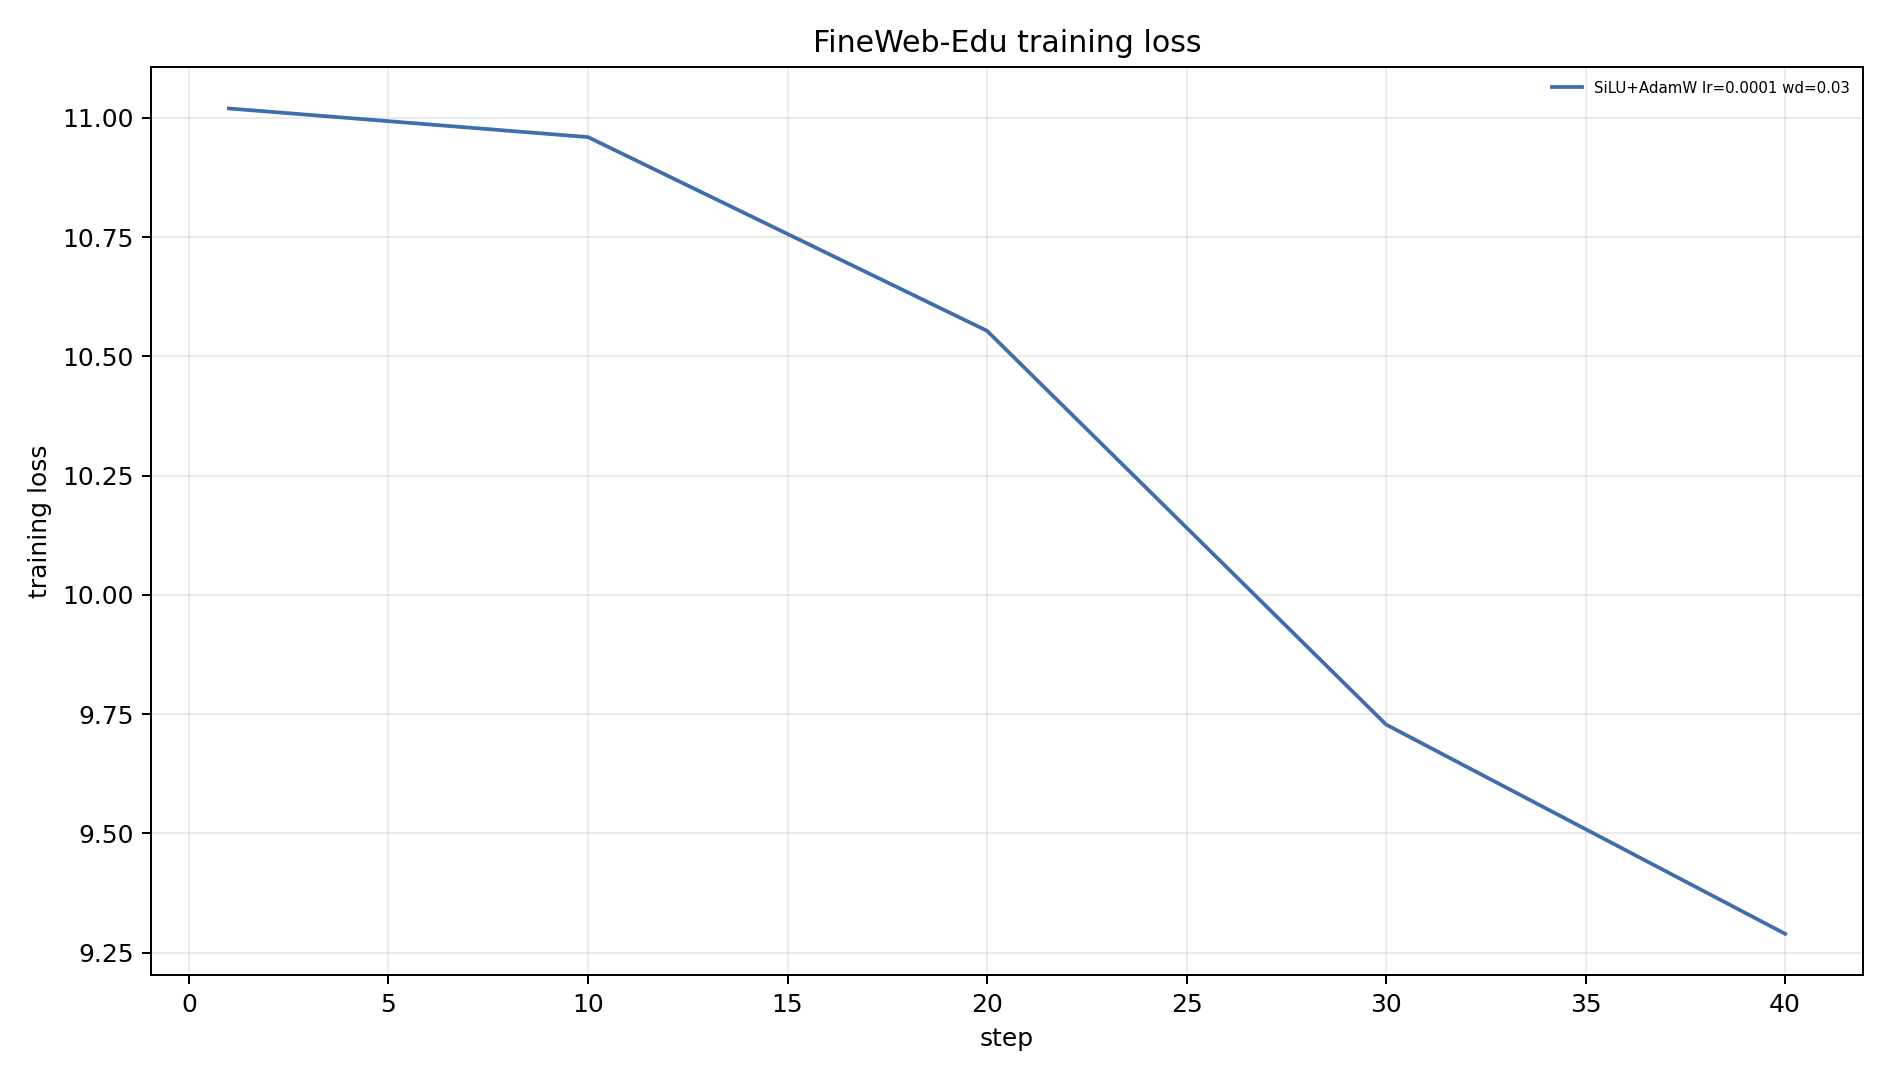
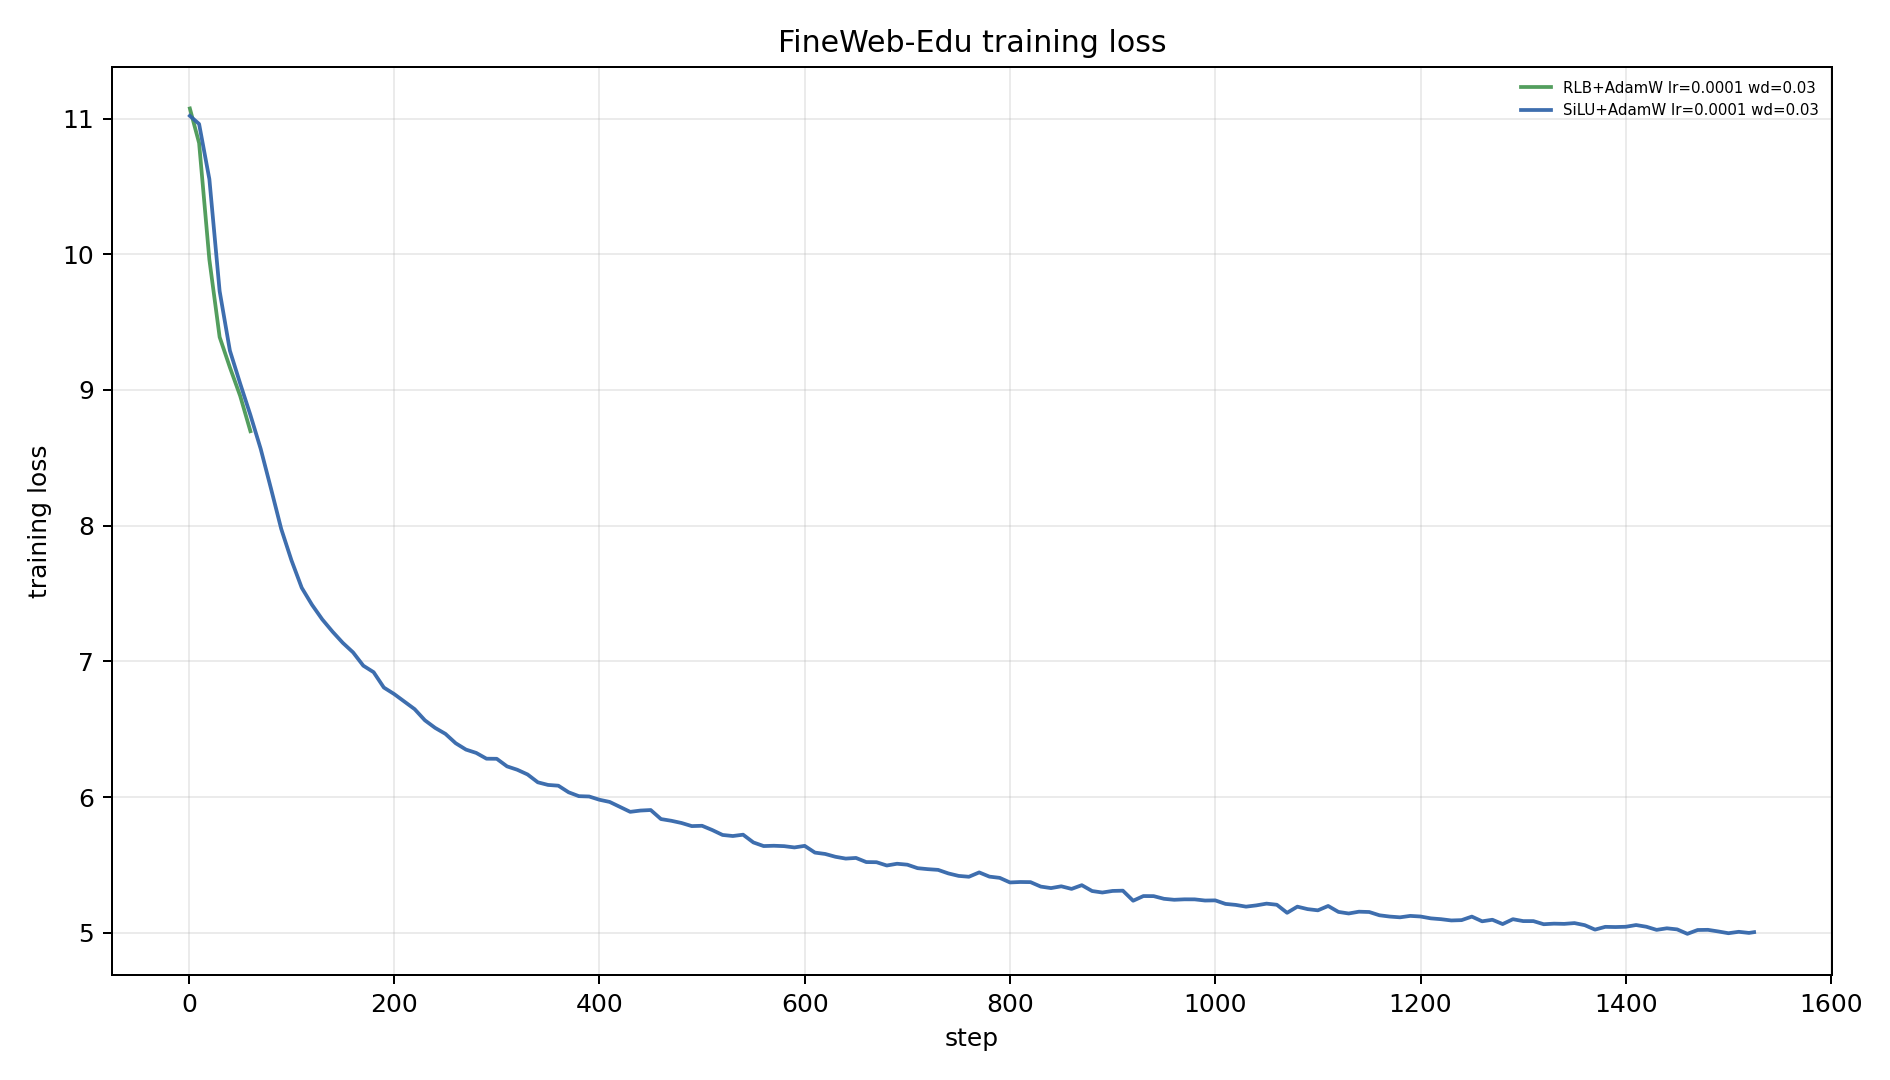
Refresh phase1 curves with live rows

diff --git a/experiments/ICLR_RETURN_HANDOFF_20260603.md b/experiments/ICLR_RETURN_HANDOFF_20260603.md
@@ -1,17 +1,17 @@
 # ICLR Return Handoff - 2026-06-03
 
-Last updated: 2026-06-04T14:19:04-04:00
+Last updated: 2026-06-04T14:57:20-04:00
 
 This file is the live operational handoff for returning to the project. It records completed smoke results, currently running Slurm work, live progress observed from JSONL/logs, and the exact next conditions. Raw run outputs remain ignored; compact summaries and launch infrastructure are tracked.
 
 ## Current Slurm State
 
-Active jobs at 2026-06-04T14:19:04-04:00:
+Active jobs at 2026-06-04T14:57:20-04:00:
 
 | job | state | elapsed | node | purpose | GPU use |
 | --- | --- | ---: | --- | --- | ---: |
-| `71047` | RUNNING | 03:49:24 | `monakhova-compute-01` | Phase 1 protocol-lock DCLM MatrixPolicy shard, configs 8-11 | 4 A6000 |
-| `71048` | RUNNING | 00:01:39 after restart | `ma-compute-02` | Phase 1 protocol-lock FineWeb-Edu AdamW control shard, configs 0-3 | 4 A6000 |
+| `71047` | RUNNING | 04:30:38+ | `monakhova-compute-01` | Phase 1 protocol-lock DCLM MatrixPolicy shard, configs 8-11 | 4 A6000 |
+| `71048` | RUNNING | 00:38:49+ after restart | `ma-compute-02` | Phase 1 protocol-lock FineWeb-Edu AdamW control shard, configs 0-3 | 4 A6000 |
 
 Active total: 8 A6000, exactly at the cap. Do not submit another GPU job until one exits.
 
@@ -36,14 +36,14 @@ Completed Phase 1 jobs so far:
 
 ## Live Phase 1 Protocol-Lock Progress
 
-These are not final Phase 1 results. They are the latest observed in-progress JSONL/log state at 2026-06-04T14:19:04-04:00.
+These are not final Phase 1 results. They are the latest observed in-progress JSONL/log state at 2026-06-04T14:57:20-04:00.
 
 | job | shard | current row | status | latest train step/loss | latest eval step/loss | notes |
 | --- | --- | --- | --- | ---: | ---: | --- |
-| `71047` | DCLM MatrixPolicy configs 8-11 | `dclm_matrix_policy_as4.0_gg0.20_lr0.0002_wd0.10_phase1_protocol_lock/rlb_fused_fixed_strong_ffn` | running | 330 / 5.5522 | 300 / 5.6774 | Two configs in this shard completed; current row is still early. |
-| `71048` | FineWeb-Edu AdamW configs 0-3 | `fineweb_edu_adamw_lr0.0001_wd0.03_phase1_protocol_lock/silu` | running after one Slurm restart | 1 / 11.0197 | 1 / 11.0267 | The earlier partial `silu` trace was archived as incomplete after `Restarts=1`; current live trace restarted cleanly with dense evals. |
+| `71047` | DCLM MatrixPolicy configs 8-11 | `dclm_matrix_policy_as4.0_gg0.20_lr0.0002_wd0.10_phase1_protocol_lock/rlb_fused_fixed_strong_ffn` | running | 870 / 4.7419 | 850 / 4.9356 | Two configs in this shard completed; current row is past halfway. |
+| `71048` | FineWeb-Edu AdamW configs 0-3 | `fineweb_edu_adamw_lr0.0001_wd0.03_phase1_protocol_lock/rlb_fused_fixed_strong_ffn` | running after one Slurm restart | 90 / 7.7851 | 50 / 8.8326 | SiLU row completed after restart; paired RLB row is now active with dense evals. |
 
-The curve-first summarizer was run at 2026-06-04T14:19:04-04:00. Tracked artifacts now live under:
+The curve-first summarizer was run at 2026-06-04T14:57:20-04:00. Tracked artifacts now live under:
 
 ```text
 experiments/results/iclr26_phase1_protocol_lock_20260604/
@@ -53,10 +53,10 @@ Summary artifact counts from the latest summarizer run:
 
 | artifact | count |
 | --- | ---: |
-| runs/groups detected | 30 |
-| validation curve points | 905 |
-| training curve points | 4353 |
-| plots | 7 |
+| runs/groups detected | 31 |
+| validation curve points | 948 |
+| training curve points | 4560 |
+| plots | 8 |
 
 DCLM partial protocol-lock signal from completed rows:
 
@@ -67,6 +67,13 @@ DCLM partial protocol-lock signal from completed rows:
 | best SiLU+AdamW AUC row | 4.4720 | 5.1813 | complete DCLM AdamW grid |
 | best completed MatrixPolicy final-loss row | 4.6385 | 5.3518 | DCLM MatrixPolicy has one config still running |
 | best completed MatrixPolicy AUC row | 4.6406 | 5.3505 | DCLM MatrixPolicy has one config still running |
+
+FineWeb-Edu partial protocol-lock signal from current rows:
+
+| comparison | latest/best val loss | full-run val-loss AUC | status |
+| --- | ---: | ---: | --- |
+| SiLU+AdamW lr=1e-4 wd=0.03 | 5.0715 | 5.8448 | complete after one Slurm restart |
+| RLB+AdamW lr=1e-4 wd=0.03 | 8.8326 | 9.9497 | running, only two eval points so far |
 
 Interpretation for internal planning: the completed DCLM AdamW protocol grid supports the RLB architecture under AdamW, but the current MatrixPolicy grid is not a headline win on DCLM. Treat Phase 1 as protocol-lock evidence and wait for the full FineWeb-Edu half before freezing any main-suite settings.
 
@@ -156,8 +163,8 @@ Estimates below are deliberately rough because MatrixPolicy step time changes af
 
 | item | expected window | basis |
 | --- | --- | --- |
-| `71048` active FineWeb-Edu AdamW shard | about 2026-06-04 late evening or later | job requeued once at 14:17 ET and restarted the first SiLU row from step 1; this shard contains four AdamW configs, each with SiLU and RLB rows. |
-| `71047` active DCLM MatrixPolicy shard | about 2026-06-04 17:30-18:45 ET | two configs complete; current row is at step 330/1525 and one config should remain after it. |
+| `71048` active FineWeb-Edu AdamW shard | about 2026-06-04 late evening or later | job requeued once at 14:17 ET; first SiLU row completed after restart and the paired RLB row is active. This shard contains four AdamW configs, each with SiLU and RLB rows. |
+| `71047` active DCLM MatrixPolicy shard | about 2026-06-04 17:30-18:45 ET | two configs complete; current row is at step 870/1525 and one config should remain after it. |
 | `71049` release | after `71047` completes, likely evening 2026-06-04 | dependency is `afterok:71047`. |
 | `143550` release | after restarted `71048` completes | dependency is `afterok:71048`; timing shifted later because of the restart. |
 | all currently queued FineWeb-Edu Phase 1 shards | likely 2026-06-05 morning to afternoon | depends on MatrixPolicy row speed and Slurm backfill. |

diff --git a/README.md b/README.md
@@ -122,7 +122,7 @@ M1 DCLM smoke final validation loss:
 | RLB+AdamW | 6.7335 | 24243.2 |
 | RLB+MatrixPolicy group-stat | 6.7349 | 25005.4 |
 
-Active continuation as of 2026-06-04T14:19:04-04:00: Phase 1 protocol-lock artifacts are now tracked in `experiments/results/iclr26_phase1_protocol_lock_20260604/` with dense eval curves, train curves, rankings, and plots. Completed DCLM AdamW controls show RLB+AdamW ahead of SiLU+AdamW at the strongest AdamW settings: best RLB+AdamW final val loss `4.4516` with full-run AUC `5.1528`, versus best SiLU+AdamW final val loss `4.4691` and best SiLU full-run AUC `5.1813`. DCLM MatrixPolicy is still finishing its last config and, among completed rows so far, is not the headline Phase 1 winner; treat this as protocol-lock evidence, not the main paper claim. Running now: `71047` DCLM MatrixPolicy configs 8-11 and requeued `71048` FineWeb-Edu AdamW configs 0-3, using 8 A6000 total. Queued continuation: `71049`, `143550`, `143584`, `143591`, and `143611`. For all future result updates, curves and AUC are primary; final validation loss alone is not enough.
+Active continuation as of 2026-06-04T14:57:20-04:00: Phase 1 protocol-lock artifacts are refreshed in `experiments/results/iclr26_phase1_protocol_lock_20260604/` with dense eval curves, train curves, rankings, and plots. Current artifact set contains 31 runs/groups, 948 validation curve points, 4560 training curve points, and 8 plots. Completed DCLM AdamW controls show RLB+AdamW ahead of SiLU+AdamW at the strongest AdamW settings: best RLB+AdamW final val loss `4.4516` with full-run AUC `5.1528`, versus best SiLU+AdamW final val loss `4.4691` and best SiLU full-run AUC `5.1813`. DCLM MatrixPolicy is still finishing its last config and, among completed rows so far, is not the headline Phase 1 winner; treat this as protocol-lock evidence, not the main paper claim. FineWeb-Edu AdamW has one completed SiLU row and its paired RLB row is now running. Running now: `71047` DCLM MatrixPolicy configs 8-11 and `71048` FineWeb-Edu AdamW configs 0-3, using 8 A6000 total. Queued continuation: `71049`, `143550`, `143584`, `143591`, and `143611`. For all future result updates, curves and AUC are primary; final validation loss alone is not enough.
 
 ## Method Sketch
 

diff --git a/experiments/results/iclr26_phase1_protocol_lock_20260604/phase1_protocol_lock_summary.md b/experiments/results/iclr26_phase1_protocol_lock_20260604/phase1_protocol_lock_summary.md
@@ -14,6 +14,7 @@ dclm_validation_loss_curves_zoom_step250.png
 fineweb_edu_validation_loss_curves.png
 fineweb_edu_validation_ppl_curves.png
 fineweb_edu_training_loss_curves.png
+fineweb_edu_validation_loss_curves_zoom_step250.png
 ```
 
 ## DCLM
@@ -48,10 +49,11 @@ fineweb_edu_training_loss_curves.png
 | 26 | adamw | silu | 0.0001 | 0.1 | 1 | 0 | 0 | 1 | 32 | 5.076860 | 5.076860 | 5.765555 | 6.784475 | 0.7316 |  |
 | 27 | adamw | silu | 0.0001 | 0.03 | 1 | 0 | 0 | 1 | 32 | 5.077363 | 5.077363 | 5.766011 | 6.785434 | 0.7286 |  |
 | 28 | adamw | silu | 0.0001 | 0.2 | 1 | 0 | 0 | 1 | 32 | 5.076833 | 5.076833 | 5.766079 | 6.785757 | 0.7333 |  |
-| 29 | rational_matrix_policy_onpolicy | rlb_fused_fixed_strong_ffn | 0.0002 | 0.1 | 1 | 1 | 0 | 1 | 8 | 5.546152 | 5.546152 | 6.737960 | 6.737960 |  | muon_momentum=0.95, muon_ns_steps=5, rational_matrix_policy_adam_lr_scale=4.0, rational_matrix_policy_group_gain_strength=0.2, rational_matrix_policy_group_pressure_strength=0.1, rational_matrix_policy_group_activity_damping=0.2 |
+| 29 | rational_matrix_policy_onpolicy | rlb_fused_fixed_strong_ffn | 0.0002 | 0.1 | 1 | 1 | 0 | 1 | 18 | 4.935619 | 4.935619 | 5.827775 | 6.339412 |  | muon_momentum=0.95, muon_ns_steps=5, rational_matrix_policy_adam_lr_scale=4.0, rational_matrix_policy_group_gain_strength=0.2, rational_matrix_policy_group_pressure_strength=0.1, rational_matrix_policy_group_activity_damping=0.2 |
 
 ## FineWeb-Edu
 
 | rank | optimizer | activation | lr | wd | n | running | div | dense | eval pts | final loss | best loss | auc full | auc 500 | sec/step | key knobs |
 | ---: | --- | --- | ---: | ---: | ---: | ---: | ---: | ---: | ---: | ---: | ---: | ---: | ---: | ---: | --- |
-| 1 | adamw | silu | 0.0001 | 0.03 | 1 | 1 | 0 | 1 | 1 | 11.026684 | 11.026684 |  |  |  |  |
+| 1 | adamw | silu | 0.0001 | 0.03 | 1 | 0 | 0 | 1 | 32 | 5.071486 | 5.071486 | 5.844844 | 6.942446 | 1.3938 |  |
+| 2 | adamw | rlb_fused_fixed_strong_ffn | 0.0001 | 0.03 | 1 | 1 | 0 | 1 | 2 | 8.832563 | 8.832563 | 9.949679 | 9.949679 |  |  |

diff --git a/experiments/results/iclr26_smoke_20260603/summary.md b/experiments/results/iclr26_smoke_20260603/summary.md
@@ -34,12 +34,12 @@ At this short M1 smoke scale, both RLB+AdamW and RLB+MatrixPolicy beat SiLU+Adam
 
 ## Active Continuation At Handoff
 
-Latest observed at 2026-06-04T14:19:04-04:00:
+Latest observed at 2026-06-04T14:57:20-04:00:19:04-04:00:
 
 | job | purpose | elapsed | latest observed row | latest train | latest eval | GPU use |
 | --- | --- | ---: | --- | ---: | ---: | ---: |
-| `71047` | Phase 1 protocol-lock DCLM MatrixPolicy shard, configs 8-11 | 03:49:24+ | `matrix_policy lr=0.0002 wd=0.10 adam_scale=4.0 group_gain=0.20` | step 330 loss 5.5522 | eval step 300 loss 5.6774 | 4 A6000 |
-| `71048` | Phase 1 protocol-lock FineWeb-Edu AdamW control shard, configs 0-3 | 00:01:39 after restart | `adamw lr=0.0001 wd=0.03 / silu` | step 1 loss 11.0197 | eval step 1 loss 11.0267 | 4 A6000 |
+| `71047` | Phase 1 protocol-lock DCLM MatrixPolicy shard, configs 8-11 | 04:30:38+ | `matrix_policy lr=0.0002 wd=0.10 adam_scale=4.0 group_gain=0.20` | step 870 loss 4.7419 | eval step 850 loss 4.9356 | 4 A6000 |
+| `71048` | Phase 1 protocol-lock FineWeb-Edu AdamW control shard, configs 0-3 | 00:38:49+ after restart | `adamw lr=0.0001 wd=0.03 / rlb active` | RLB step 90 loss 7.7851 | RLB eval step 50 loss 8.8326 | 4 A6000 |
 
 No immediate-start GPU work should be submitted while both jobs are active because the 8 A6000 cap is fully used; dependency-held continuation is already queued.
 
